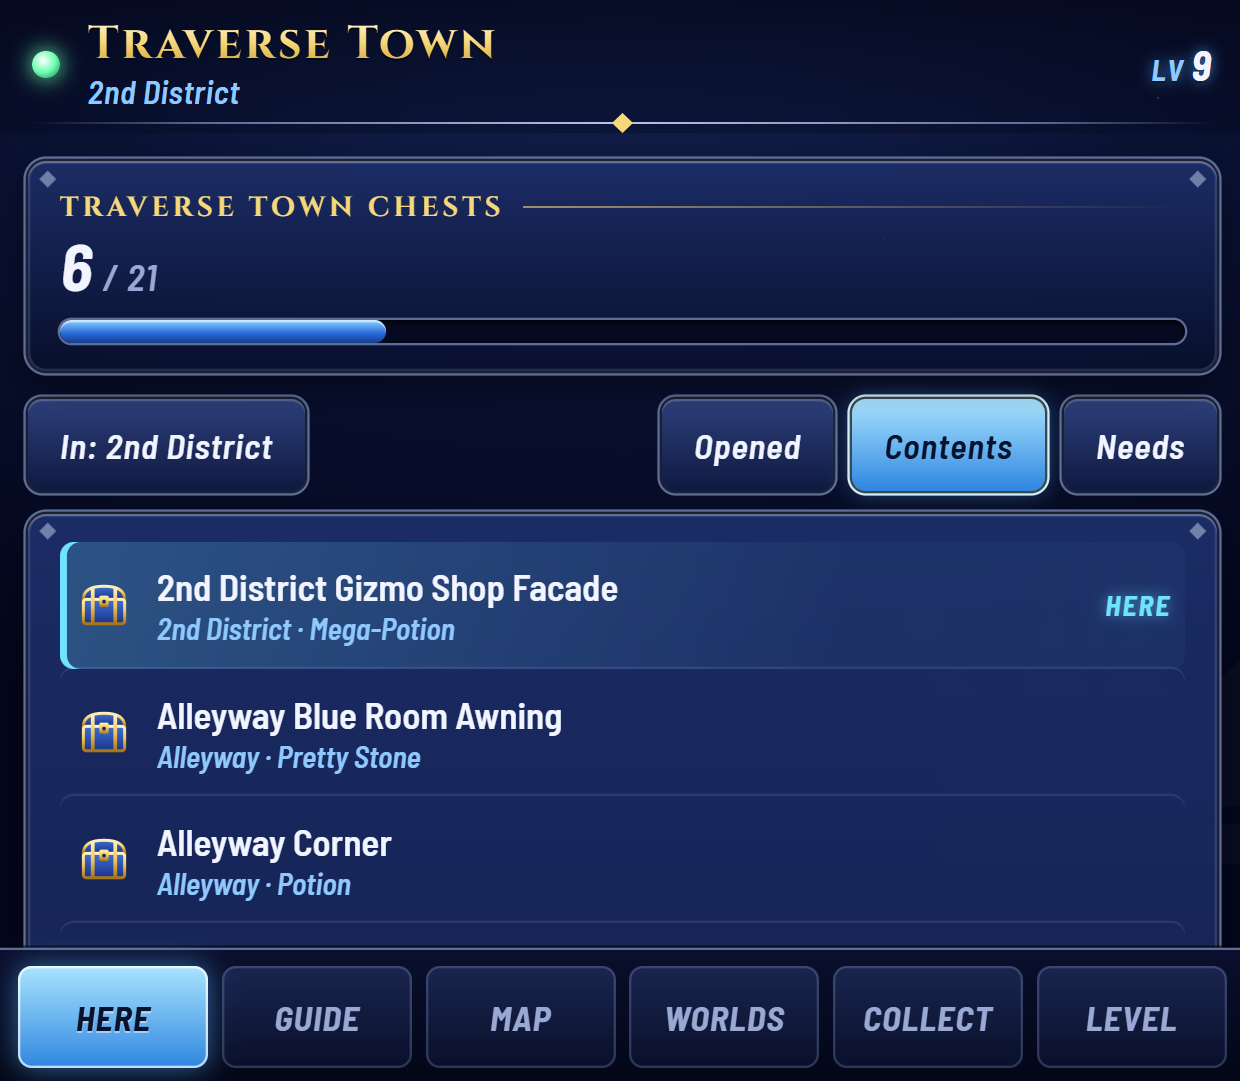
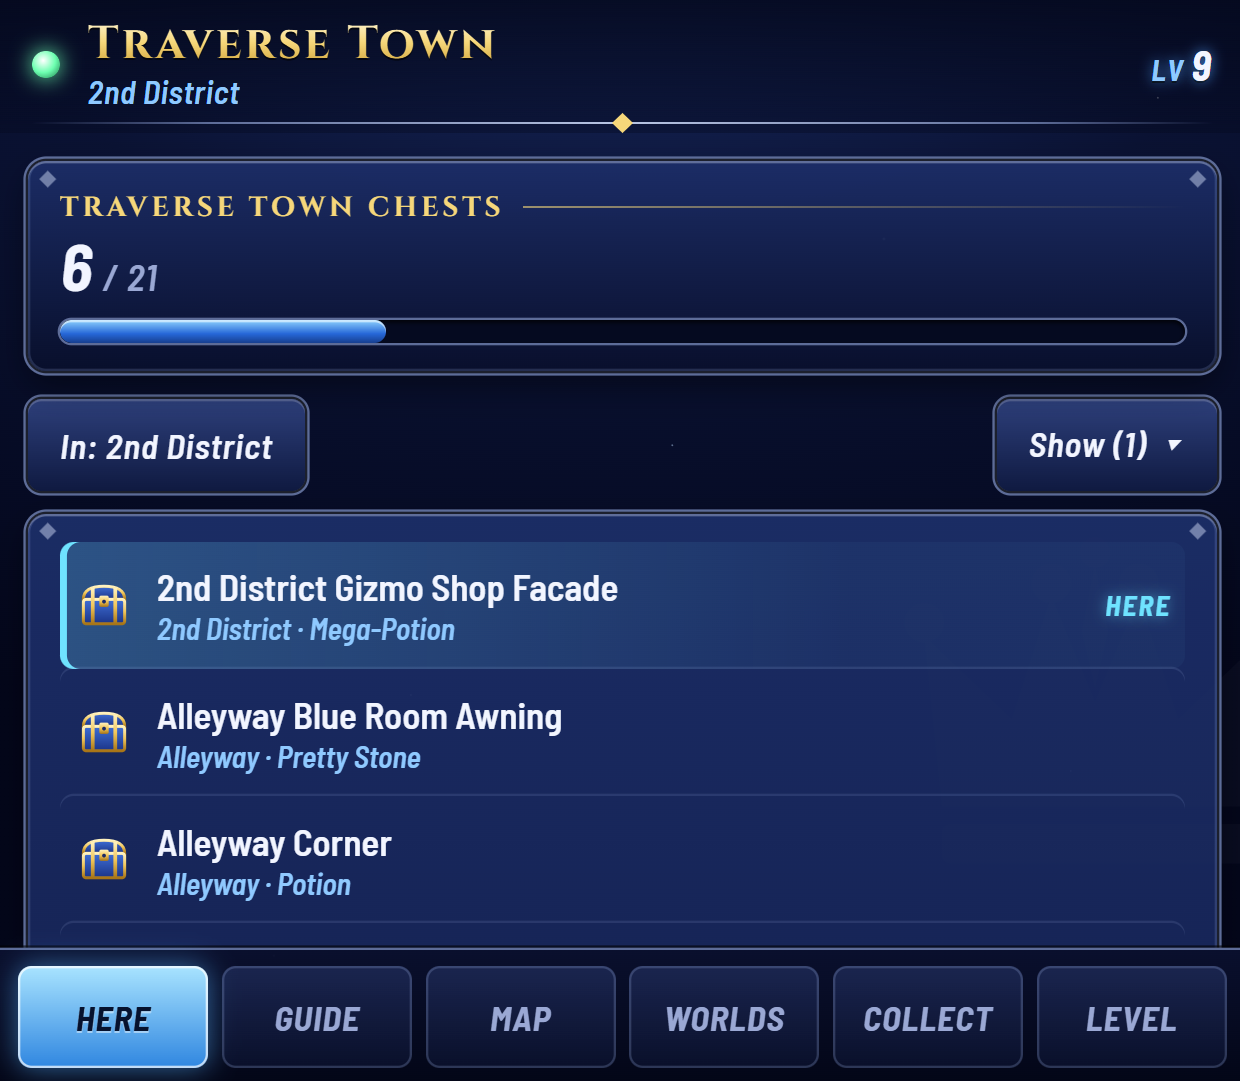
Chest lists: one Show button with plain-language options; contents always follow the switch
The three chips (Opened / Contents / Needs) become a Show button that opens a
sheet explaining each option. What's inside now shows even for chests in rooms
you haven't visited (only room names stay hidden), which made Contents look
broken on Destiny Islands.

Changed region(s): [[0.521, 0.3358, 0.95, 0.4884]]

diff --git a/companion/app.js b/companion/app.js
@@ -63,17 +63,17 @@
 
   // ---------- shared pieces ----------
 
-  const needText = (lock) => (lock[0] === "story" ? "Opens later in the story" : showNeeds ? "Needs " + lock.join(" + ") : "Can't reach yet");
+  const needText = (lock) => (lock[0] === "story" ? "Opens later in the story" : showNeeds ? "Needs " + lock.join(" + ") : "Can't reach it yet");
   // Reports named after a boss fight would spoil it: say how, not who.
   const reportHow = (r) => r.n.replace(/ Ansem's Report \d+$/, "").replace(/^Defeat .+$/, "After a boss fight");
 
   function chestRow(c, opts) {
     const n = c.node && L.node(c.w, c.node);
     const known = !n || roomKnown(c.w, n.id);
-    const sub = [opts.showRoom && n ? (known ? L.labelOf(n) : "A room you haven't been to") : null, known && showContents && c.i ? c.i : null,
+    const sub = [opts.showRoom && n && known ? L.labelOf(n) : null, showContents && c.i ? c.i : null,
       c.lock ? needText(c.lock) : null].filter(Boolean).join(" · ");
     return `<li class="${c.got ? "got" : ""} ${opts.here ? "here" : ""} ${c.lock ? "locked" : ""}">${icon(c.got ? "ico-chest-open" : "ico-chest")}` +
-      `<span class="grow"><span class="name">${known ? esc(c.n.replace(/ Chest$/, "")) : "???"}</span>` +
+      `<span class="grow"><span class="name">${known ? esc(c.n.replace(/ Chest$/, "")) : "Chest in a room you haven't been to"}</span>` +
       (sub ? `<div class="sub">${esc(sub)}</div>` : "") + `</span>` +
       (L.isPuppies(c) ? `<span class="tag pup">${icon("ico-paw", "")}Pups</span>` : "") +
       (c.lock ? '<span class="tag later">Later</span>' : opts.here ? '<span class="tag here">Here</span>' : "") + `</li>`;
@@ -94,18 +94,33 @@
       `<div class="bar ${got === total && total ? "done" : ""}"><i style="width:${pct}%"></i></div></div>`;
   }
 
+  // What the chest lists show, behind one "Show" button with a sheet that says what each option does.
+  const LIST_OPTIONS = [
+    ["showOpened", "Opened chests", "Also list the chests you've already opened."],
+    ["showContents", "What's inside", "Show what each chest holds."],
+    ["showNeeds", "What unlocks them", "For chests you can't reach yet, name the ability or item you need, like Glide or a Trinity."],
+  ];
+  const optionOn = { showOpened: () => showOpened, showContents: () => showContents, showNeeds: () => showNeeds };
   function toggles() {
-    return `<button class="chip ${showOpened ? "on" : ""}" data-toggle="showOpened">Opened</button>` +
-      `<button class="chip ${showContents ? "on" : ""}" data-toggle="showContents">Contents</button>` +
-      `<button class="chip ${showNeeds ? "on" : ""}" data-toggle="showNeeds">Needs</button>`;
+    const n = LIST_OPTIONS.filter(([k]) => optionOn[k]()).length;
+    return `<button class="chip" data-options>Show${n ? ` (${n})` : ""} ▾</button>`;
   }
   function wireToggles(root) {
-    root.querySelectorAll("[data-toggle]").forEach((b) => {
-      b.onclick = () => {
-        if (b.dataset.toggle === "showOpened") { showOpened = !showOpened; store.set("showOpened", showOpened); }
-        else if (b.dataset.toggle === "showNeeds") { showNeeds = !showNeeds; store.set("showNeeds", showNeeds); }
-        else { showContents = !showContents; store.set("showContents", showContents); }
-        render(true);
+    root.querySelectorAll("[data-options]").forEach((b) => { b.onclick = openListOptions; });
+  }
+  function openListOptions() {
+    openSheet(`<h2>Show in chest lists</h2><ul class="list options">${LIST_OPTIONS.map(([k, title, desc]) =>
+      `<li data-opt="${k}"><span class="grow"><span class="name">${title}</span><div class="sub">${desc}</div></span>` +
+      `<span class="switch ${optionOn[k]() ? "on" : ""}"><i></i></span></li>`).join("")}</ul>` +
+      `<div class="row"><span class="grow"></span><button class="chip" data-close>Done</button></div>`);
+    $("sheetBody").querySelectorAll("[data-opt]").forEach((li) => {
+      li.onclick = () => {
+        const k = li.dataset.opt;
+        if (k === "showOpened") showOpened = !showOpened;
+        else if (k === "showContents") showContents = !showContents;
+        else showNeeds = !showNeeds;
+        store.set(k, optionOn[k]());
+        li.querySelector(".switch").classList.toggle("on", optionOn[k]());
       };
     });
   }

diff --git a/companion/theme.css b/companion/theme.css
@@ -256,6 +256,12 @@ svg.map .node { cursor: pointer; }
 svg.map .node.shut { opacity: .45; }
 svg.map .node.unknown .nl { fill: var(--muted); font-style: italic; letter-spacing: .2em; }
 svg.map .node.later .nc { fill: var(--muted); }
+/* on/off switch in option sheets */
+.switch { flex: none; width: 46px; height: 26px; border-radius: 13px; background: #20284d; box-shadow: inset 0 0 0 2px var(--silver-dim); position: relative; transition: background .15s; }
+.switch i { position: absolute; top: 4px; left: 4px; width: 18px; height: 18px; border-radius: 50%; background: #9aa8d4; transition: left .15s, background .15s; }
+.switch.on { background: #2f6fd0; box-shadow: inset 0 0 0 2px #8fc9ff; }
+.switch.on i { left: 24px; background: #fff; }
+ul.list.options li { cursor: pointer; }
 .map-count { display: inline-flex; align-items: center; gap: 6px; font: italic 600 14px var(--ui); color: var(--sub); white-space: nowrap; }
 .map-count svg { width: 18px; height: 18px; }
 .map-count b { color: var(--text); font-style: normal; }
